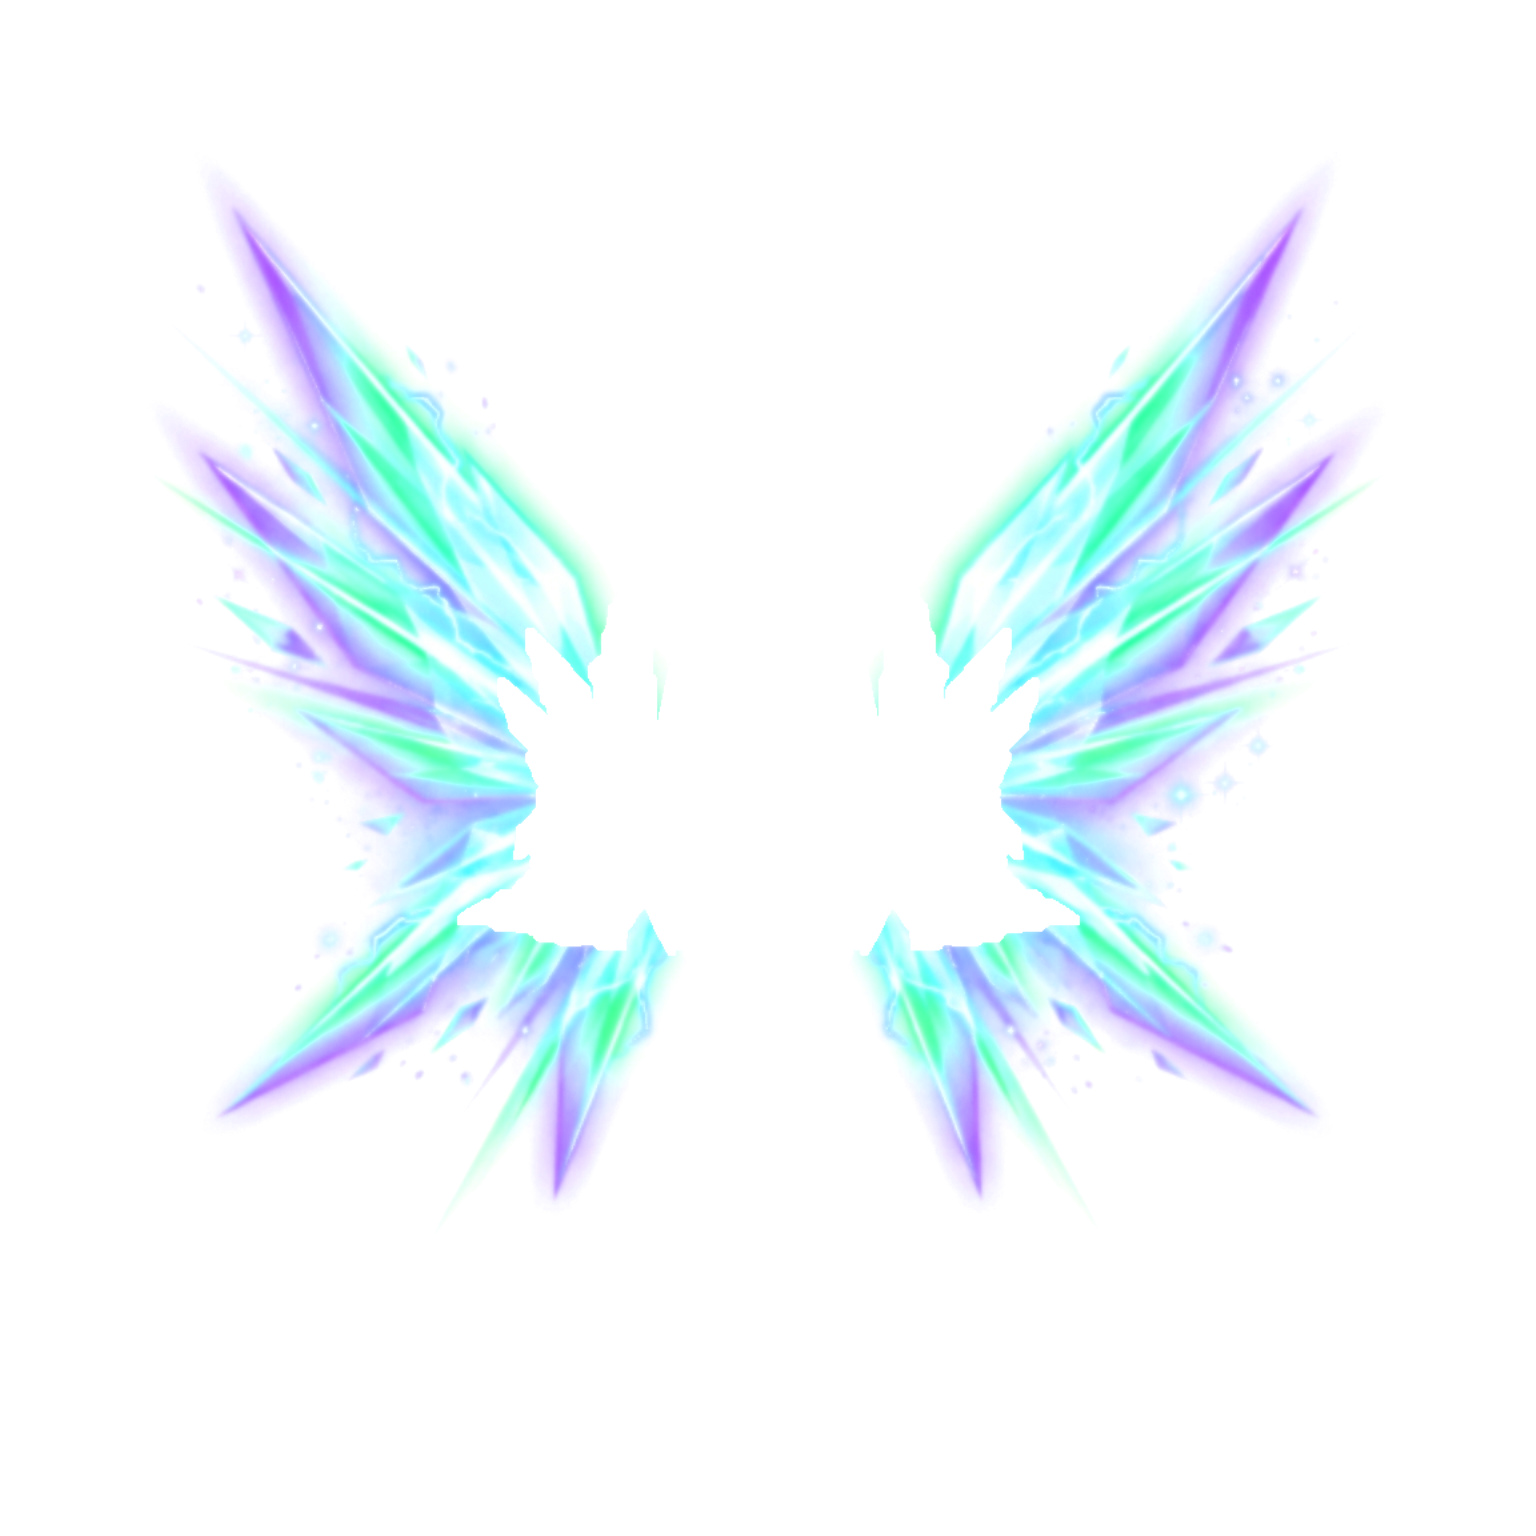
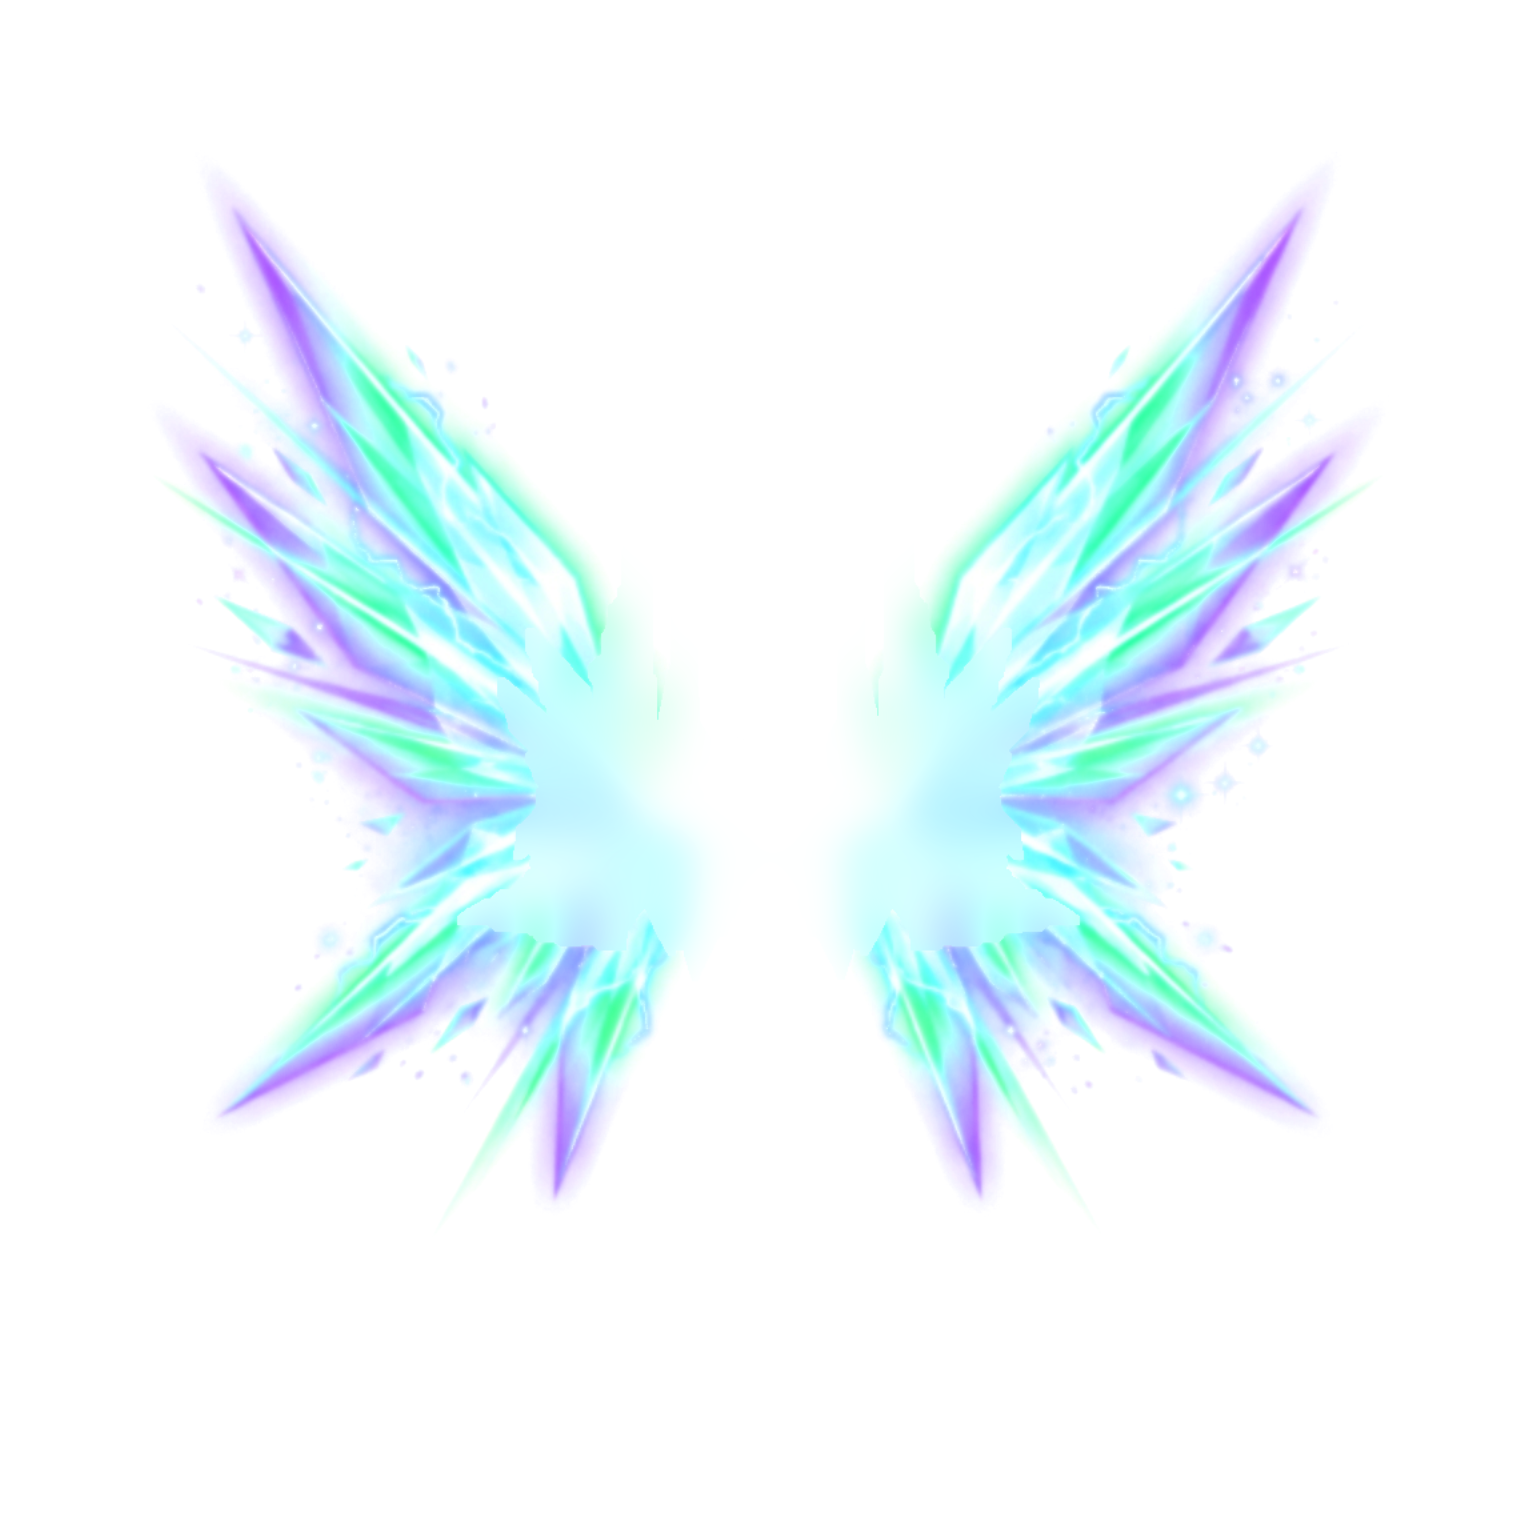
V257B: lấp chỗ thân trong ảnh bung Gemini bằng năng lượng loang (bậc khác không lộ lỗ đen hình thân)
Claude-Session: https://claude.ai/code/session_01AseaWCP472YazYg4XKBJxW

Changed region(s): [[0.5312, 0.375, 0.7188, 0.625], [0.2812, 0.375, 0.4688, 0.625]]

diff --git a/claude_tools/bung_gemini.py b/claude_tools/bung_gemini.py
@@ -35,10 +35,17 @@ ext = max(np.percentile(abs(xs - c), 99.8), np.percentile(abs(ys - c), 99.8)) / 
 FR = int(np.ceil((2 * ext * 1.06 + 128) / 256) * 256); PX = min(FR, 1536); KK = PX / FR / U
 Mfx = np.float32([[KK, 0, PX / 2 - c * KK], [0, KK, PX / 2 - c * KK]])
 warp = lambda X: cv2.warpAffine(X, Mfx, (PX, PX), flags=cv2.INTER_AREA)
-g = np.clip(warp(g1), 0, 255).astype(np.uint8); Image.fromarray(np.dstack([g] * 4), 'RGBA').save(f'{OUT}/fx.png')
+g = np.clip(warp(g1), 0, 255).astype(np.uint8)   # bản chưa lấp: dùng dò gốc cánh
+# V257B: lấp chỗ thân bằng năng lượng loang (inpaint + mờ) → bậc khác thân nhỏ hơn / lệch cũng không lộ lỗ đen hình thân. Tắt: FILLK=0
+FK = float(os.environ.get('FILLK', .8))
+if FK > 0:
+    sm = cv2.resize(E1, (512, 512), interpolation=cv2.INTER_AREA).clip(0, 255).astype(np.uint8); hs = cv2.resize(hm.astype(np.uint8), (512, 512), interpolation=cv2.INTER_NEAREST)
+    fl = cv2.GaussianBlur(cv2.inpaint(sm, hs, 12, cv2.INPAINT_TELEA).astype(np.float32), (0, 0), 6); fl = cv2.resize(fl, (1024, 1024), interpolation=cv2.INTER_LINEAR)
+    E1 = np.where(hm[..., None], fl * FK, E1)
+gw = np.clip(warp(lum(E1)), 0, 255).astype(np.uint8); Image.fromarray(np.dstack([gw] * 4), 'RGBA').save(f'{OUT}/fx.png')
 Ew = np.clip(warp(E1), 0, 255); mx = Ew.max(-1, keepdims=True)
 Image.fromarray(np.dstack([np.where(mx > 0, Ew / np.maximum(mx, 1) * 255, 0), mx]).clip(0, 255).astype(np.uint8), 'RGBA').save(f'{OUT}/fx_mau.png')
-g3 = np.clip((g.astype(np.float32) - 150) * 2.2, 0, 255).astype(np.uint8); Image.fromarray(np.dstack([g3] * 4), 'RGBA').save(f'{OUT}/fx3.png')
+g3 = np.clip((gw.astype(np.float32) - 150) * 2.2, 0, 255).astype(np.uint8); Image.fromarray(np.dstack([g3] * 4), 'RGBA').save(f'{OUT}/fx3.png')
 gT = np.clip(warp(lum(dT)), 0, 255).astype(np.uint8); SO['lop_truoc_than_px'] = int((gT > 30).sum())
 if SO['lop_truoc_than_px'] > 200: Image.fromarray(np.dstack([gT] * 4), 'RGBA').save(f'{OUT}/fxT.png')
 ramp = [[0.0, 0, 0, 0]]
